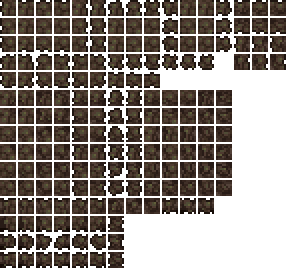
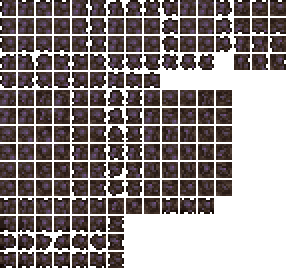
Fixed some tile framing inconsistencies and also purple ebonsoot

diff --git a/SOTS.cs b/SOTS.cs
@@ -49,6 +49,7 @@ using SOTS.Common.ModPlayers;
 using Terraria.Map;
 using SOTS.Items.AbandonedVillage;
 using SOTS.Items.Earth;
+using SOTS.Items.Inferno;
 
 namespace SOTS
 {
@@ -810,7 +811,7 @@ namespace SOTS
 		}
 		public static Similarity GetSimilarity(Tile check, int myType, int mergeType)
         {
-			bool bonusMerge = false;
+            bool bonusMerge = false;
 			if (mergeType == ModContent.TileType<SootBlockTile>())
 				bonusMerge = check.TileType == ModContent.TileType<SootSlabTile>();
             if (mergeType == TileID.Marble)
@@ -853,7 +854,18 @@ namespace SOTS
 				mergedUp = mergedLeft = mergedRight = mergedDown = false;
 				return;
 			}
-			Main.tileMerge[myType][mergeType] = false;
+			bool forceNoneLeft = false, forceNoneRight = false, forceNoneUp = false, forceNoneDown = false;
+			if (Main.tile[x, y].Slope != SlopeType.Solid || Main.tile[x, y].IsHalfBlock)
+            {
+                forceNoneDown = Main.tile[x, y].BottomSlope;
+                forceNoneLeft = Main.tile[x, y].LeftSlope;
+                forceNoneUp = Main.tile[x, y].TopSlope;
+                forceNoneRight = Main.tile[x, y].RightSlope;
+                if (Main.tile[x, y].IsHalfBlock)
+					forceNoneUp = true;
+				forceSameLeft = forceSameRight = forceSameUp = forceSameDown = true;
+            }
+            Main.tileMerge[myType][mergeType] = false;
 			if(mergeType == ModContent.TileType<SootBlockTile>())
             {
                 Main.tileMerge[myType][ModContent.TileType<SootSlabTile>()] = false;
@@ -870,10 +882,18 @@ namespace SOTS
 			Tile tileTopRight = Main.tile[x + 1, y - 1];
 			Tile tileBottomLeft = Main.tile[x - 1, y + 1];
 			Tile check = Main.tile[x + 1, y + 1];
-			Similarity leftSim = ((!forceSameLeft) ? GetSimilarity(tileLeft, myType, mergeType) : Similarity.Same);
-			Similarity rightSim = ((!forceSameRight) ? GetSimilarity(tileRight, myType, mergeType) : Similarity.Same);
-			Similarity upSim = ((!forceSameUp) ? GetSimilarity(tileUp, myType, mergeType) : Similarity.Same);
-			Similarity downSim = ((!forceSameDown) ? GetSimilarity(tileDown, myType, mergeType) : Similarity.Same);
+            if (tileDown.IsHalfBlock || tileDown.TopSlope)
+                forceNoneDown = true;
+			if (tileUp.BottomSlope)
+				forceNoneUp = true;
+            if (tileLeft.RightSlope)
+                forceNoneLeft = true;
+            if (tileRight.LeftSlope)
+                forceNoneRight = true;
+            Similarity leftSim = forceNoneLeft ? Similarity.None : (!forceSameLeft) ? GetSimilarity(tileLeft, myType, mergeType) : Similarity.Same;
+			Similarity rightSim = forceNoneRight ? Similarity.None : (!forceSameRight) ? GetSimilarity(tileRight, myType, mergeType) : Similarity.Same;
+			Similarity upSim = forceNoneUp ? Similarity.None : (!forceSameUp) ? GetSimilarity(tileUp, myType, mergeType) : Similarity.Same;
+			Similarity downSim = forceNoneDown ? Similarity.None : (!forceSameDown) ? GetSimilarity(tileDown, myType, mergeType) : Similarity.Same;
 			Similarity topLeftSim = GetSimilarity(tileTopLeft, myType, mergeType);
 			Similarity topRightSim = GetSimilarity(tileTopRight, myType, mergeType);
 			Similarity bottomLeftSim = GetSimilarity(tileBottomLeft, myType, mergeType);

diff --git a/WorldgenHelpers/AbandonedVillageWorldgenHelper.cs b/WorldgenHelpers/AbandonedVillageWorldgenHelper.cs
@@ -532,7 +532,7 @@ namespace SOTS.WorldgenHelpers
                                 if (generateSides)
                                 {
                                     ushort type = StoneBrickBlock;
-                                    if (WorldGen.genRand.NextBool(2))
+                                    if (!WorldGen.genRand.NextBool(3))
                                     {
                                         type = StoneBlock;
                                     }
@@ -651,8 +651,7 @@ namespace SOTS.WorldgenHelpers
 						bool open = t.WallType == WallID.RocksUnsafe1 || t.WallType == WallID.GrayBrick || t.WallType == WallID.StoneSlab
                             || t.WallType == ModContent.WallType<EarthenPlatingBeamWall>() || t.WallType == ModContent.WallType<EarthenPlatingPanelWallWall>() || t.WallType == ModContent.WallType<EarthenPlatingWallWall>() 
                             || t.WallType == ModContent.WallType<UnsafeGulaPlatingWall>() || t.WallType == ModContent.WallType<GulaPlatingWallWall>();
-						bool isStone = t.HasTile && (t.TileType == StoneBlock || 
-                            t.TileType == StoneBrickBlock || 
+						bool isStone = t.HasTile && (t.TileType == StoneBlock || t.TileType == StoneBrickBlock || 
                             t.TileType == ModContent.TileType<GulaPlatingTile>());
                         if (!generateStone && !open && !isStone && t.TileType != ModContent.TileType<EarthenPlatingTile>() && t.TileType != ModContent.TileType<EarthenPlatingPlatformTile>())
                         {
@@ -663,7 +662,7 @@ namespace SOTS.WorldgenHelpers
 						else if(generateStone && !open)
                         {
                             ushort type = StoneBrickBlock;
-                            if (WorldGen.genRand.NextBool(2))
+                            if (!WorldGen.genRand.NextBool(3))
                             {
                                 type = StoneBlock;
                             }
@@ -1997,7 +1996,7 @@ namespace SOTS.WorldgenHelpers
                                     break;
                                 case 18:
                                     ushort type = StoneBrickBlock;
-                                    if (WorldGen.genRand.NextBool(2))
+                                    if (!WorldGen.genRand.NextBool(3))
                                     {
                                         type = StoneBlock;
                                     }

diff --git a/Common/GlobalTiles/BasicTile.cs b/Common/GlobalTiles/BasicTile.cs
@@ -36,6 +36,7 @@ namespace SOTS.Common.GlobalTiles
                 //Main.tileMergeDirt[Type] = true;
                 Main.tileBlockLight[Type] = true;
                 Main.tileLighted[Type] = false;
+
                 SafeSetStaticDefaults();
             }
             public virtual void SafeSetStaticDefaults()

diff --git a/Items/AbandonedVillage/SootBlock.cs b/Items/AbandonedVillage/SootBlock.cs
@@ -21,6 +21,7 @@ namespace SOTS.Items.AbandonedVillage
 			Main.tileMergeDirt[Type] = true;
 			Main.tileBlockLight[Type] = true;
 			Main.tileLighted[Type] = false;
+
 			DustType = ModContent.DustType<SootDust>(); 
 			AddMapEntry(new Color(57, 50, 44));
 		}
